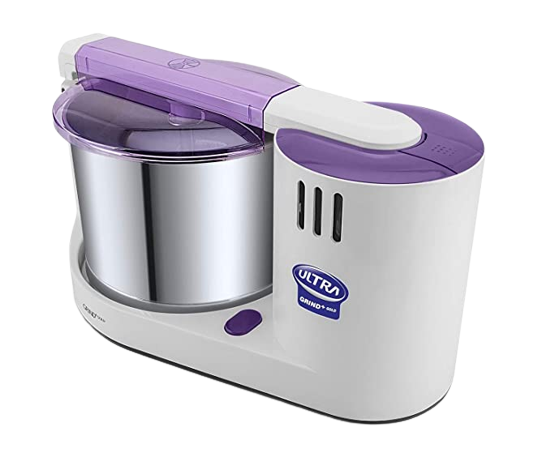
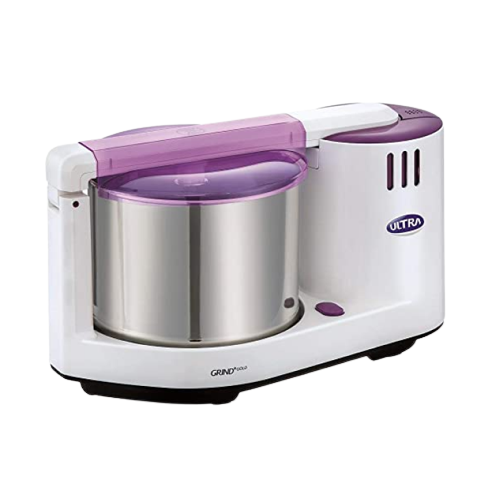
chore: updated products catalog

diff --git a/src/storeCatalog/products.ts b/src/storeCatalog/products.ts
@@ -2415,7 +2415,7 @@ export const PRODUCTS = [
         categories: [CATEGORIES.ESSENTIAL_APPLIANCES],
         tags: [],
         targetLink: 'https://www.amazon.in/dp/B0B53CGS6Z',
-        image: '00000334.png',
+        image: '00000334.jpg',
     },
     {
         id: '00000315',
